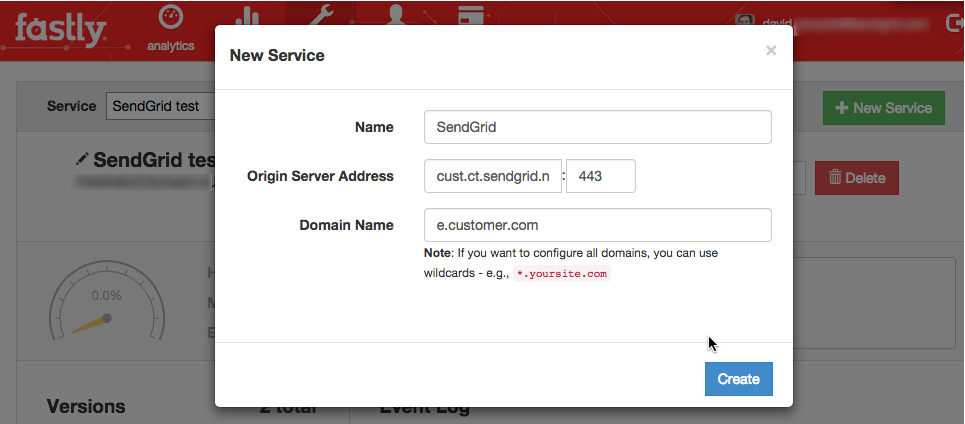
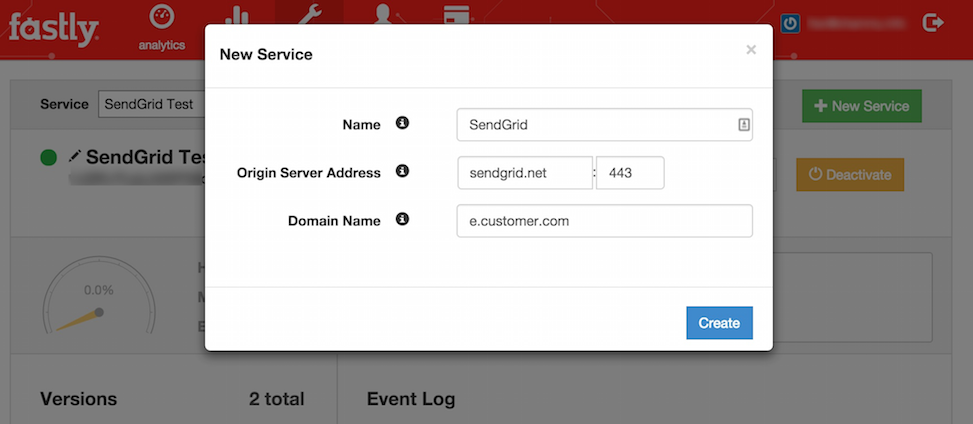
Updated fastly documentation to sendgrid.net instead of uid.ct.sendgrid.net

diff --git a/source/Classroom/Build/Add_Content/content_delivery_networks.md b/source/Classroom/Build/Add_Content/content_delivery_networks.md
@@ -77,13 +77,13 @@ Set the options as follows:
 
 *Name*: SendGrid (or whatever you like)
 
-*Origin Server Address*: yourcompanyname.ct.sendgrid.net : 443 (Insert your company name. Note the connection on the SSL port 443)
+*Origin Server Address*: sendgrid.net : 443 (Note the connection on the SSL port 443)
 
-*Domain Name*: email.example.com (whitelabel domain name is, from the SendGrid WhiteLabel Wizard. This value will be what recipients see in your SSL enabled clicktracking links that SendGrid creates in your emails).
+*Domain Name*: email.example.com (Enter your WhiteLabel domain name here. Ensure it matches the domain configured in the SendGrid WhiteLabel Wizard. This value will be what recipients see in your SSL enabled clicktracking links).
 
 Fastly has a few different options for SSL termination. If you want to be able to use your SendGrid whitelabel Domain with SSL, you'll need to select either the Shared Certificate, Shared Wildcard Certificate, or Customer Certificate Hosting options. If you need to add your SendGrid whitelabel domain to your Fastly managed certificate, you can open a ticket with Fastly via the support tab or by mailing support@fastly.com, and they will walk you through the process. Please put "SSL Certificate Request" in the subject.
 
-After provisioning, switch your CNAME for your domain(s) over to the TLS endpoint provided by Fastly support.
+After provisioning, updated the CNAME record for your domain(s) over to the TLS endpoint provided by Fastly support.
 
-Finally; contact SendGrid support, and they'll validate the CDN settings and enable SSL click and open
+Finally; Contact SendGrid support, and they'll validate the CDN settings and enable SSL click and open
 tracking.
